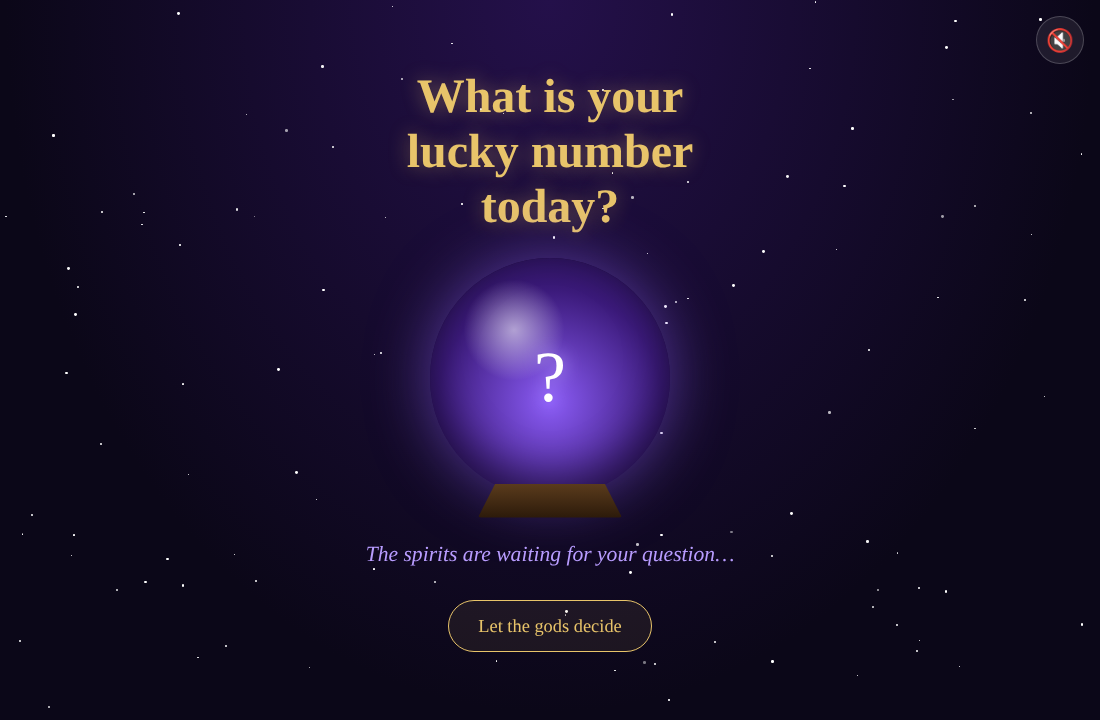
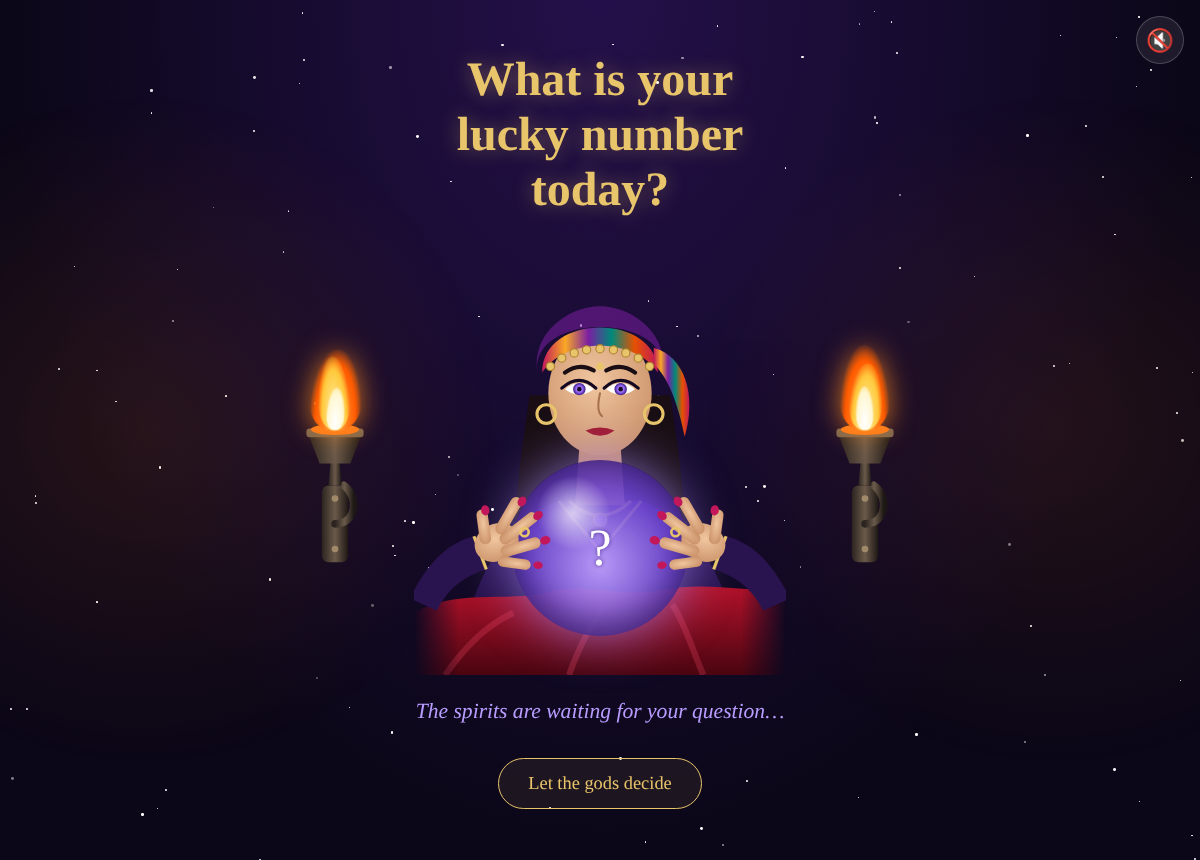
Bring back the fortune teller and the torches, redrawn
- Original SVG illustration of the fortune teller (headscarf with coins, hands around the ball, velvet cloth)
- Two wall torches with CSS-animated flickering flames and warm light
- Crystal ball now sits in her hands; responsive layout fixed for phones
- Updated screenshot and README

diff --git a/style.css b/style.css
@@ -9,7 +9,7 @@
 }
 
 * { box-sizing: border-box; }
-body { margin: 0; min-height: 100dvh; display: grid; place-items: center; overflow: hidden; }
+body { margin: 0; min-height: 100dvh; display: grid; place-items: center; overflow-x: hidden; }
 
 .stars { position: fixed; inset: 0; pointer-events: none; }
 .stars i {
@@ -34,40 +34,97 @@ h1 {
   text-shadow: 0 0 20px rgb(232 196 106 / 0.4);
 }
 
-.ball-wrap { display: grid; justify-items: center; }
+/* --- Scene: torch | fortune teller | torch --- */
+.scene {
+  display: grid;
+  width: min(94vw, 640px);
+  grid-template-columns: 1fr 3.4fr 1fr;
+  align-items: center;
+  gap: clamp(0.25rem, 2vw, 1.5rem);
+}
+
+.stage { position: relative; container-type: inline-size; }
+.witch, .hands { display: block; width: 100%; height: auto; }
+.hands { position: absolute; inset: 0; pointer-events: none; }
+.witch {
+  /* fade the drawing's side and bottom edges into the night */
+  -webkit-mask-image: linear-gradient(to right, transparent, #000 12%, #000 88%, transparent);
+  mask-image: linear-gradient(to right, transparent, #000 12%, #000 88%, transparent);
+}
+
 .ball {
-  width: clamp(180px, 45vw, 240px);
+  position: absolute;
+  left: 26.4%;
+  top: 50.5%;
+  width: 47.2%;
   aspect-ratio: 1;
   border-radius: 50%;
   display: grid;
   place-items: center;
   background:
-    radial-gradient(circle at 35% 30%, rgb(255 255 255 / 0.55), transparent 22%),
-    radial-gradient(circle at 50% 60%, #8b5cf6, #3b1a7a 60%, #1a0b38);
-  box-shadow: 0 0 60px rgb(139 92 246 / 0.55), inset 0 -20px 40px rgb(0 0 0 / 0.45);
+    radial-gradient(circle at 35% 30%, rgb(255 255 255 / 0.7), transparent 22%),
+    radial-gradient(circle at 50% 60%, rgb(190 160 255 / 0.95), rgb(110 70 210 / 0.9) 55%, rgb(40 15 90 / 0.95));
+  box-shadow: 0 0 50px rgb(167 139 250 / 0.75), inset 0 -14px 30px rgb(0 0 0 / 0.35);
 }
 .ball.thinking { animation: swirl 0.6s linear infinite; }
 @keyframes swirl {
-  50% { box-shadow: 0 0 90px rgb(184 156 255 / 0.9), inset 0 -20px 40px rgb(0 0 0 / 0.45); filter: hue-rotate(40deg); }
+  50% { box-shadow: 0 0 90px rgb(200 180 255 / 1), inset 0 -14px 30px rgb(0 0 0 / 0.35); filter: hue-rotate(50deg) brightness(1.15); }
 }
 .ball.reveal .number { animation: appear 0.6s ease-out; }
 @keyframes appear { from { opacity: 0; transform: scale(0.4); filter: blur(8px); } }
 
 .number {
   font-family: 'Cinzel Decorative', serif;
-  font-size: clamp(3rem, 12vw, 4.5rem);
+  font-size: 14cqw;
   color: white;
-  text-shadow: 0 0 18px var(--glow);
+  text-shadow: 0 0 18px var(--glow), 0 0 4px #3b1a7a;
 }
 
-.stand {
-  width: 60%;
-  height: 34px;
-  margin-top: -14px;
-  background: linear-gradient(#5a3b1c, #2c1a0a);
-  clip-path: polygon(12% 0, 88% 0, 100% 100%, 0 100%);
-  border-radius: 4px;
+/* --- Torches --- */
+.torch { position: relative; margin-top: 10%; }
+.torch img { display: block; width: 100%; height: auto; }
+.flame {
+  position: absolute;
+  left: 50%;
+  bottom: 61.5%; /* sits on the cup (y = 99 of the 260-unit torch drawing) */
+  width: 46%;
+  aspect-ratio: 1 / 1.7;
+  transform: translateX(-50%);
+  filter: drop-shadow(0 0 14px rgb(255 140 30 / 0.9));
 }
+.flame i {
+  position: absolute;
+  inset: 0;
+  border-radius: 50% 50% 45% 45% / 65% 65% 35% 35%;
+  transform-origin: 50% 100%;
+  animation: flicker 0.9s ease-in-out infinite alternate;
+}
+.flame i:nth-child(1) { background: radial-gradient(ellipse at 50% 85%, #ffb347, #ff5a00 55%, transparent 72%); }
+.flame i:nth-child(2) { inset: 22% 18% 0; background: radial-gradient(ellipse at 50% 85%, #fff3b0, #ffc93c 55%, transparent 75%); animation-duration: 0.6s; animation-delay: -0.3s; }
+.flame i:nth-child(3) { inset: 50% 32% 0; background: radial-gradient(ellipse at 50% 80%, #ffffff, #fff7d1 60%, transparent 80%); animation-duration: 0.45s; }
+.torch.right .flame i { animation-delay: -0.4s; }
+@keyframes flicker {
+  0%   { transform: scale(1, 1) skewX(0deg); }
+  25%  { transform: scale(0.94, 1.08) skewX(3deg); }
+  50%  { transform: scale(1.04, 0.95) skewX(-2deg); }
+  75%  { transform: scale(0.97, 1.1) skewX(2deg); }
+  100% { transform: scale(1.02, 0.98) skewX(-3deg); }
+}
+
+/* warm light cast by the torches */
+.glow {
+  position: fixed;
+  top: 10%;
+  width: 60vw;
+  height: 80vh;
+  pointer-events: none;
+  background: radial-gradient(closest-side, rgb(255 120 30 / 0.16), transparent);
+  animation: breathe 2.2s ease-in-out infinite alternate;
+}
+.glow.left { left: -18vw; }
+.glow.right { right: -18vw; animation-delay: -1.1s; }
+@keyframes breathe { to { opacity: 0.6; } }
+
 
 .omen { margin: 0; min-height: 1.6em; font-size: 1.35rem; font-style: italic; color: var(--glow); }
 
@@ -100,5 +157,5 @@ h1 {
 button:focus-visible { outline: 3px solid var(--glow); outline-offset: 3px; }
 
 @media (prefers-reduced-motion: reduce) {
-  .stars i, .ball.thinking, .ball.reveal .number { animation: none; }
+  .stars i, .ball.thinking, .ball.reveal .number, .flame i, .glow { animation: none; }
 }

diff --git a/index.html b/index.html
@@ -13,17 +13,32 @@
 </head>
 <body>
   <div class="stars" aria-hidden="true"></div>
+  <div class="glow left" aria-hidden="true"></div>
+  <div class="glow right" aria-hidden="true"></div>
 
   <button id="sound" class="sound" aria-pressed="false" title="Ambient sound">🔇</button>
 
   <main>
     <h1>What is your lucky number today?</h1>
 
-    <div class="ball-wrap">
-      <div class="ball" id="ball">
-        <span class="number" id="number" aria-live="polite">?</span>
+    <div class="scene">
+      <div class="torch left" aria-hidden="true">
+        <div class="flame"><i></i><i></i><i></i></div>
+        <img src="img/torch.svg" alt="" />
       </div>
-      <div class="stand" aria-hidden="true"></div>
+
+      <div class="stage">
+        <img class="witch" src="img/witch.svg" alt="A fortune teller with a colorful headscarf gazing into her crystal ball" />
+        <div class="ball" id="ball">
+          <span class="number" id="number" aria-live="polite">?</span>
+        </div>
+        <img class="hands" src="img/hands.svg" alt="" aria-hidden="true" />
+      </div>
+
+      <div class="torch right" aria-hidden="true">
+        <div class="flame"><i></i><i></i><i></i></div>
+        <img src="img/torch.svg" alt="" />
+      </div>
     </div>
 
     <p class="omen" id="omen">The spirits are waiting for your question…</p>

diff --git a/README.md b/README.md
@@ -9,6 +9,7 @@ together with an omen. One of my first JavaScript projects (2022), re-imagined i
 
 ## Features
 
+- A fortune teller with a colorful headscarf and two flickering torches, all original SVG/CSS artwork
 - Crystal ball that "thinks" (spinning numbers + glow) before revealing the answer
 - Random omen with every number; uses `crypto.getRandomValues`
 - Optional ambient sound (mystic drone + fire crackles) **synthesized live with the Web Audio API** — no audio files
@@ -22,5 +23,6 @@ No build step: open `index.html` or serve the folder (`npx serve .`).
 ## 2026 refresh
 
 The 2022 version used two MP3s ripped from YouTube, GIFs and a downloaded font of unknown license,
-and tried to autoplay audio (which modern browsers block). Everything is now drawn with CSS and generated
+and tried to autoplay audio (which modern browsers block). The fortune teller and torches of the original
+(a stock photo and GIFs) were redrawn as original SVG illustrations with CSS-animated flames, and the sound is generated
 with the Web Audio API, so the repo went from ~10 MB to a few KB. The original files are in the git history.
